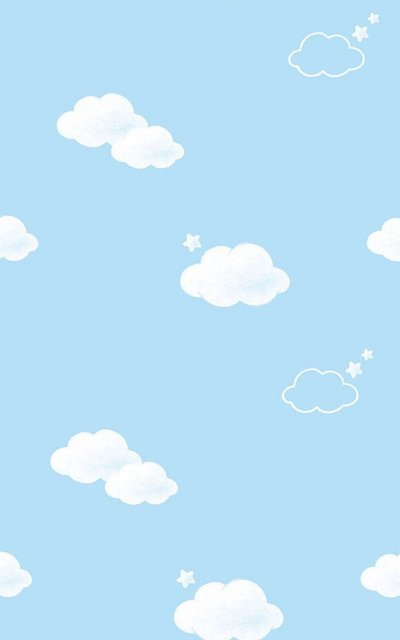
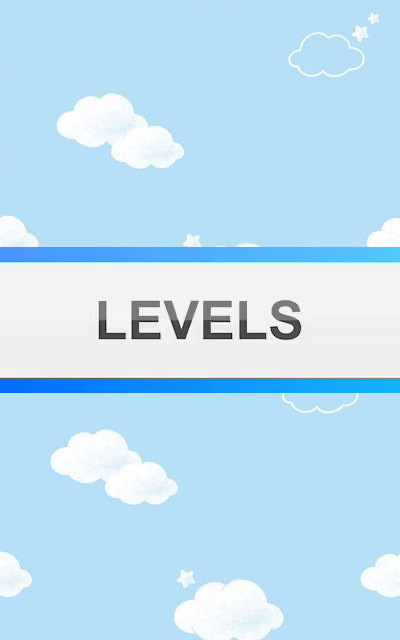
+ доработка прыжков + кнопка levels(по нажатию пока начинается игра)

Changed region(s): [[0.0, 0.375, 1.0, 0.625]]

diff --git a/App.py b/App.py
@@ -5,18 +5,20 @@ import random
 
 
 class Tile(pygame.sprite.Sprite):
-    def __init__(self, app, pos_x, pos_y):
+    def __init__(self, app, pos_x, pos_y, n):
         super().__init__(app.all_sprites, app.tiles_group)
         self.image = app.load_image('platform.png')
-        self.rect = self.image.get_rect().move(
-            app.tile_width * pos_x, app.tile_height * pos_y)
+        self.n = n
+        self.x = pos_x
+        self.y = pos_y
+        self.rect = self.image.get_rect().move(self.x, self.y)
 
 
 class Hero(pygame.sprite.Sprite):
     def __init__(self, app, pos):
         self.app = app
         super().__init__(app.player_group, app.all_sprites)
-        self.image = self.app.load_image("bird.jpg")
+        self.image = self.app.load_image("bird.png")
         self.rect = self.image.get_rect()
         # вычисляем маску для эффективного сравнения
         self.mask = pygame.mask.from_surface(self.image)
@@ -28,8 +30,17 @@ class Hero(pygame.sprite.Sprite):
         self.rect.y += pos[1]
 
     def jump(self):
-        self.update((0, -60))
+        self.update((0, -90))
 
+    def on_platform(self):
+        for i in range(len(app.tiles)):
+            s = pygame.sprite.spritecollideany(self, app.tiles_group)
+            t = app.tiles
+            if (s and self.rect.x + 65 >  t[i][0] and self.rect.x <= t[i][0] + 65
+                    and self.rect.y < t[i][1]):
+                if s.x == t[i][0] and s.y == t[i][1] and s.n == i:
+                    return True
+        return False
 
 
 
@@ -59,6 +70,10 @@ class Button():
             return True
         return False
 
+    def level(self, pos):
+        if 373 > pos[1] > 227:
+            return True
+
 
 class App:
     def __init__(self):
@@ -67,7 +82,8 @@ class App:
         self.clock = pygame.time.Clock()
         self.screen = pygame.display.set_mode((self.width, self.height))
         pygame.display.set_caption('Прыгаем по платформам')
-        # pygame.key.set_repeat(200, 70)
+        pygame.mixer.music.load('data/music.mp3')
+        pygame.key.set_repeat(200, 70)
         self.tile_width = 40
         self.tile_height = 60
         self.fps = 60
@@ -95,17 +111,18 @@ class App:
     def generate_level(self):
         for y in range(0, 11):
             x = random.randint(3, 9)
-            self.tiles_group.add(Tile(self, x, y))
-            self.tiles.append([x, y])
+            self.tiles_group.add(Tile(self, x * self.tile_width, y * self.tile_height, y))
+            self.tiles.append([x * self.tile_width, y * self.tile_height])
 
     def run_game(self):
+        pygame.mixer.music.play(-1)
         self.all_sprites = pygame.sprite.Group()
         self.tiles_group = pygame.sprite.Group()
         self.player_group = pygame.sprite.Group()
         self.tiles = []
         self.generate_level()
-        x = self.tiles[9][0] * self.tile_width - 20
-        y = self.tiles[9][1] * self.tile_height - 50
+        x = self.tiles[9][0] - 20
+        y = self.tiles[9][1] - 50
         self.hero = Hero(self, (x, y))
         run = True
         fon = pygame.transform.scale(self.load_image('gamefon.png'), (self.width, self.height))
@@ -118,14 +135,14 @@ class App:
                 if event.type == pygame.KEYDOWN and event.key == pygame.K_1:
                     self.game_over += 1
                 if event.type == MYEVENTTYPE:
-                    if not pygame.sprite.spritecollideany(self.hero, app.tiles_group):
+                    if not self.hero.on_platform():
                         self.hero.update((0, 5))
             keys = pygame.key.get_pressed()
             if keys[pygame.K_RIGHT]:
                 self.hero.update((10, 0))
             if keys[pygame.K_LEFT]:
                 self.hero.update((-10, 0))
-            if keys[pygame.K_UP] and pygame.sprite.spritecollideany(self.hero, app.tiles_group):
+            if keys[pygame.K_UP] and self.hero.on_platform():
                 self.hero.jump()
             if self.hero.rect.y > 600:
                 run = False
@@ -142,11 +159,12 @@ class App:
         intro_text = ["        Правила игры",
                       "В игре вы должны продвигаться вверх",
                       "по платформам",
-                      "Игра заканчивается, когда вы упадёте"
-                      ' ', ' ', ' ', ' ', ' ', ' ', '    Чтобы начать, нажмите на пробел']
+                      "Игра заканчивается, когда вы упадёте"]
 
         fon = pygame.transform.scale(self.load_image('fon.jpg'), (self.width, self.height))
+        self.lvl = Button('', self.screen)
         self.screen.blit(fon, (0, 0))
+        self.lvl.render(self.screen)
         font = pygame.font.Font(None, 30)
         text_coord = 50
         for line in intro_text:
@@ -157,15 +175,18 @@ class App:
             intro_rect.x = 10
             text_coord += intro_rect.height
             self.screen.blit(string_rendered, intro_rect)
-
         while True:
             for event in pygame.event.get():
                 if event.type == pygame.QUIT:
                     self.terminate()
-                elif event.type == pygame.KEYDOWN and event.key == pygame.K_SPACE:
-                    return  # начинаем игру
+                elif event.type == pygame.MOUSEBUTTONDOWN:
+                    if self.lvl.level(event.pos):
+                        return
             pygame.display.flip()
             self.clock.tick(self.fps)
+
+    def choice_levels(self):
+        pass
 
     def end_screen(self):
         fon = pygame.transform.scale(self.load_image('game over 1.jpg'), (self.width, self.height - 100))
